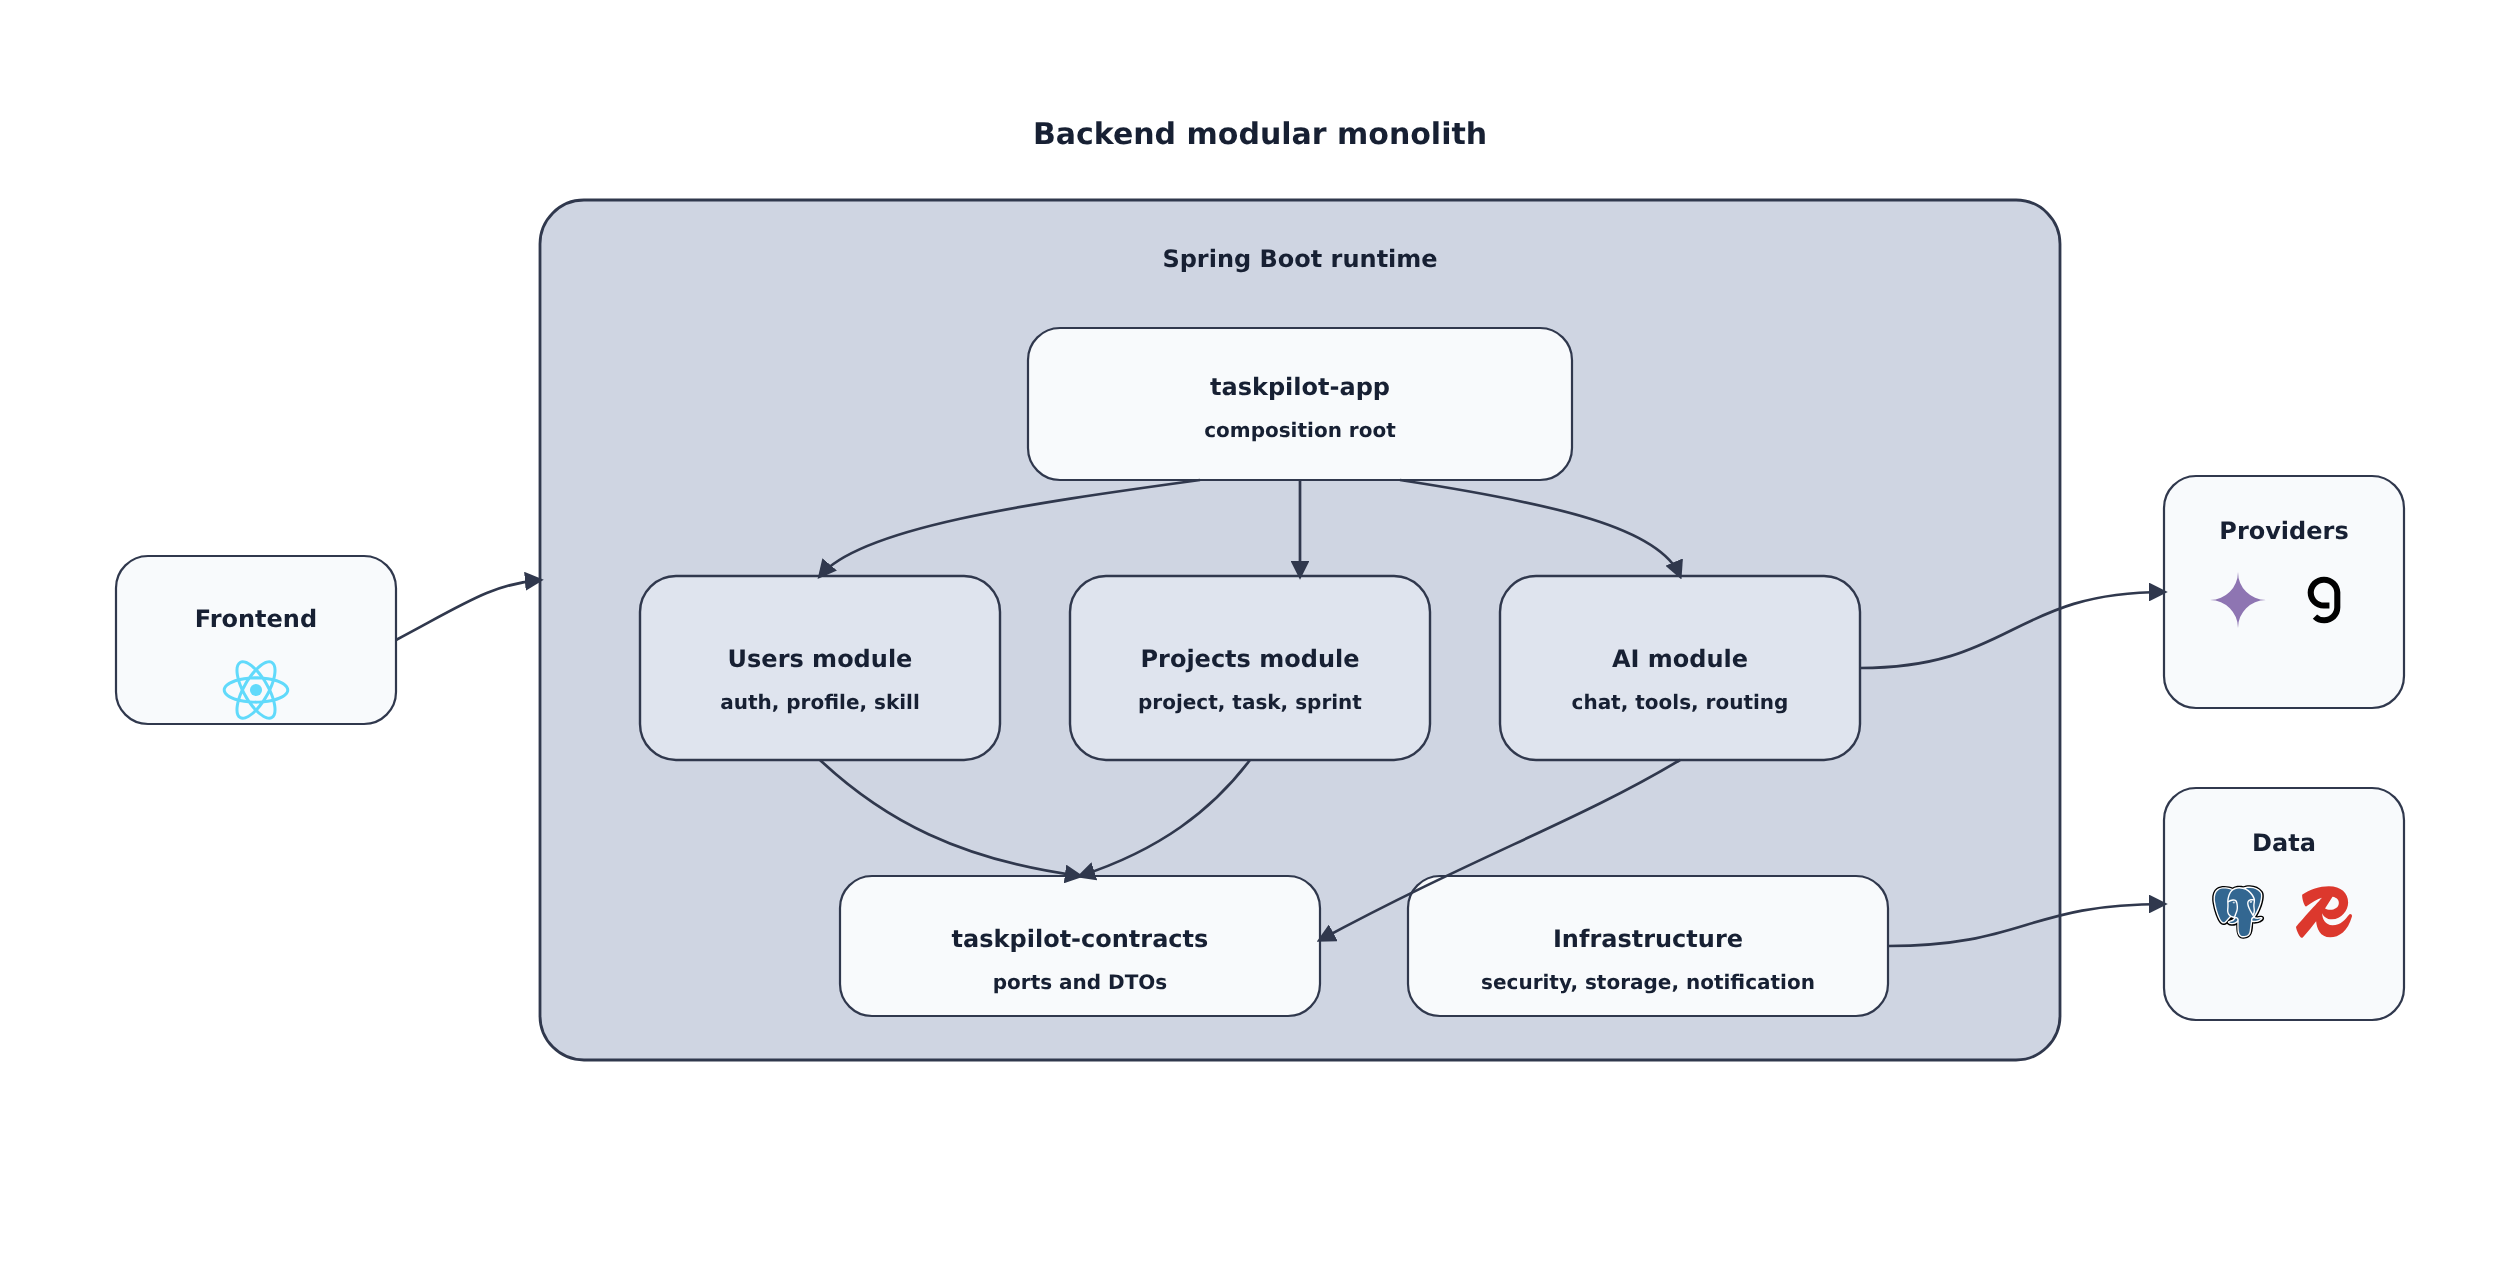
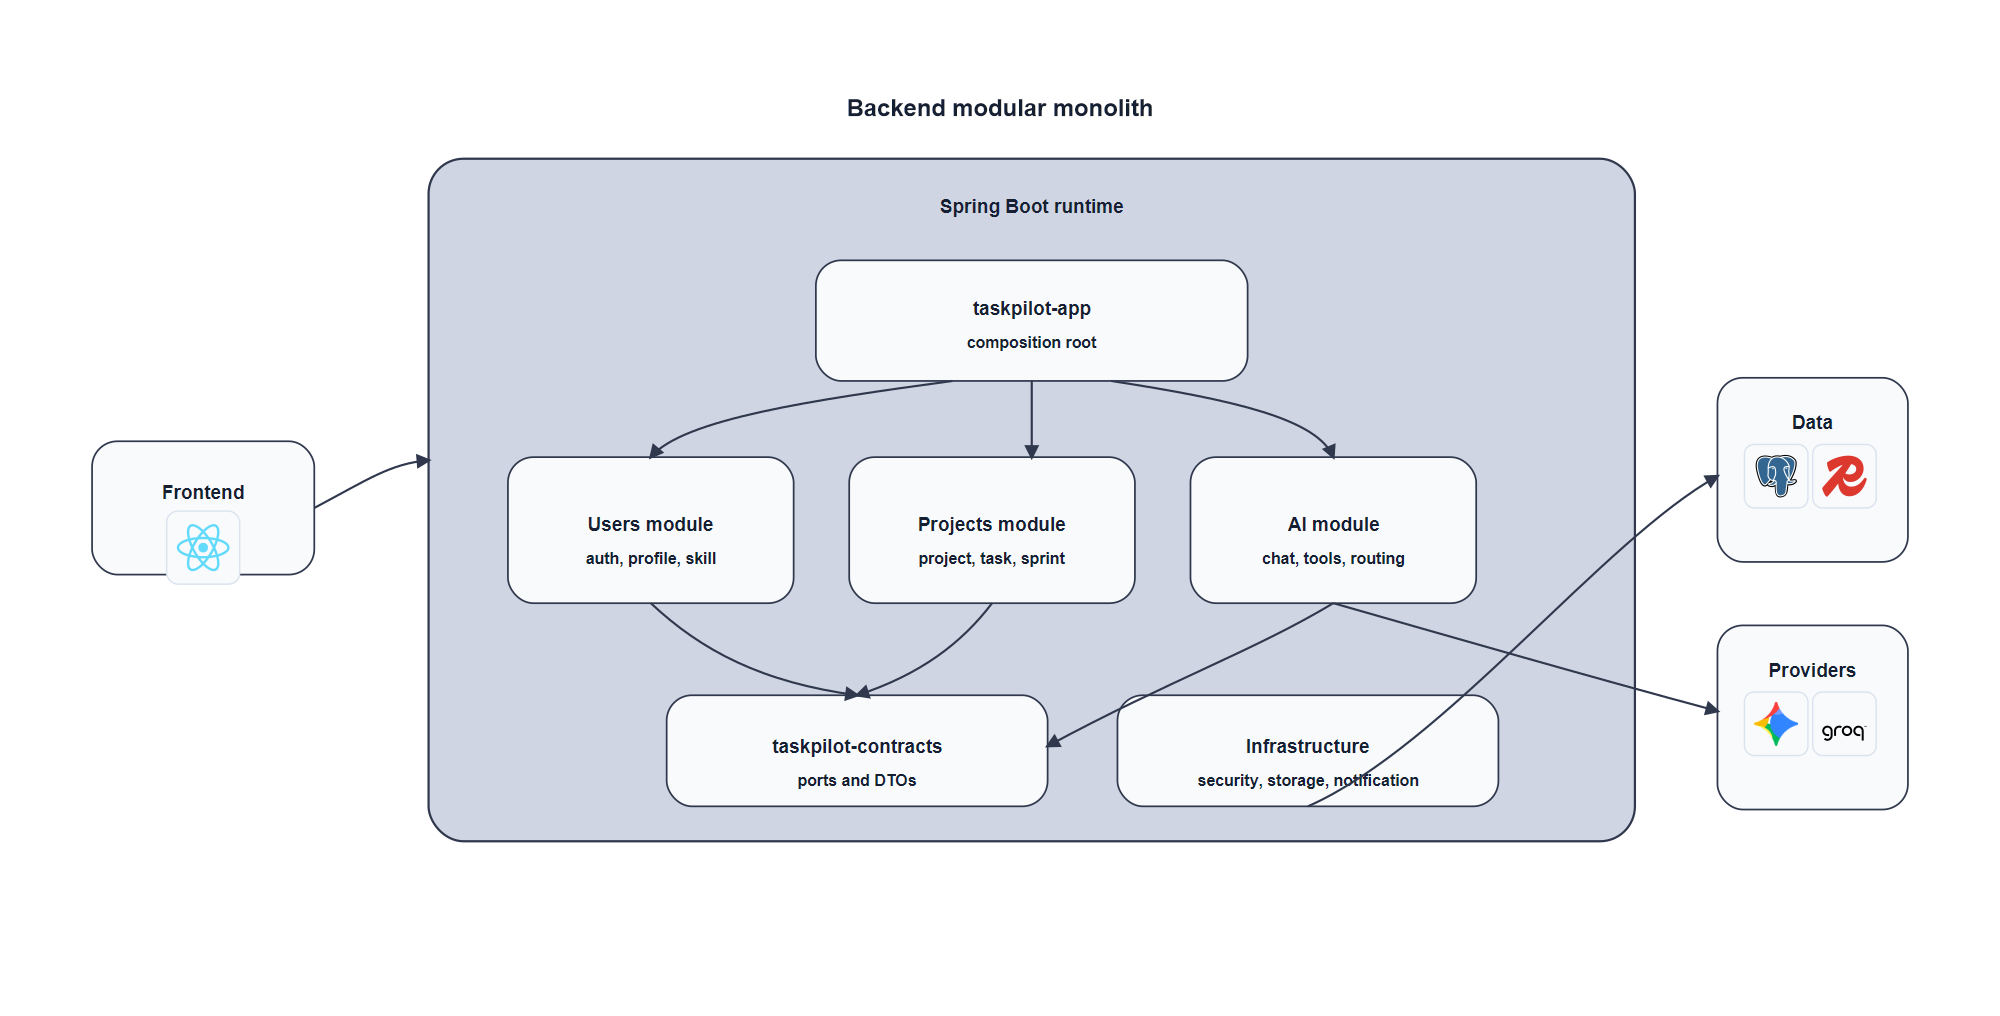
fix: fix image

diff --git a/scripts/render_ahp_weight_charts.py b/scripts/render_ahp_weight_charts.py
@@ -1,0 +1,83 @@
+from pathlib import Path
+
+
+ROOT = Path(__file__).resolve().parents[1]
+OUT = ROOT / "src" / "assets" / "diagrams"
+
+
+MODES = {
+    "balanced": {
+        "title": "AHP weights - BALANCED",
+        "color": "#2563eb",
+        "values": [
+            ("workload cost\nL(u)", 0.648),
+            ("skill fit\nF(u,t)", 0.230),
+            ("performance\nP(u)", 0.122),
+        ],
+    },
+    "urgent": {
+        "title": "AHP weights - URGENT",
+        "color": "#dc2626",
+        "values": [
+            ("workload cost\nL(u)", 0.053),
+            ("skill fit\nF(u,t)", 0.474),
+            ("performance\nP(u)", 0.474),
+        ],
+    },
+    "training": {
+        "title": "AHP weights - TRAINING",
+        "color": "#0f766e",
+        "values": [
+            ("workload cost\nL(u)", 0.731),
+            ("skill fit\nF(u,t)", 0.188),
+            ("performance\nP(u)", 0.081),
+        ],
+    },
+}
+
+
+def multiline_text(x, y, text, size=16, weight=600, fill="#1f2937"):
+    lines = text.split("\n")
+    start = y - (len(lines) - 1) * 10
+    return "\n".join(
+        f"<text x='{x}' y='{start + i * 22}' text-anchor='middle' "
+        f"font-family='Arial, Helvetica, sans-serif' font-size='{size}' "
+        f"font-weight='{weight}' fill='{fill}'>{line}</text>"
+        for i, line in enumerate(lines)
+    )
+
+
+def render(mode, config):
+    chart_top = 112
+    chart_bottom = 350
+    chart_height = chart_bottom - chart_top
+    xs = [305, 505, 705]
+    bar_w = 112
+    parts = [
+        "<svg xmlns='http://www.w3.org/2000/svg' width='1000' height='430' viewBox='0 0 1000 430'>",
+        "<rect width='100%' height='100%' fill='#ffffff'/>",
+        "<rect x='16' y='16' width='968' height='398' rx='10' fill='#f8fafc' stroke='#cbd5e1'/>",
+        multiline_text(500, 56, config["title"], size=24, weight=700),
+        "<line x1='190' y1='110' x2='190' y2='350' stroke='#64748b'/>",
+        "<line x1='190' y1='350' x2='830' y2='350' stroke='#64748b'/>",
+        "<text x='170' y='116' text-anchor='end' font-family='Arial, Helvetica, sans-serif' font-size='12' fill='#475569'>1.0</text>",
+        "<text x='170' y='350' text-anchor='end' font-family='Arial, Helvetica, sans-serif' font-size='12' fill='#475569'>0.0</text>",
+    ]
+    for x, (label, value) in zip(xs, config["values"]):
+        h = round(value * chart_height)
+        y = chart_bottom - h
+        parts.extend(
+            [
+                f"<rect x='{x - bar_w / 2}' y='{y}' width='{bar_w}' height='{h}' rx='7' fill='{config['color']}'/>",
+                multiline_text(x, y - 16, f"{value:.3f}", size=16, weight=700),
+                multiline_text(x, 378, label, size=14, weight=600),
+            ]
+        )
+    parts.append("</svg>")
+    (OUT / f"ch3_12_ahp_weights_{mode}.svg").write_text("\n".join(parts), encoding="utf8")
+
+
+if __name__ == "__main__":
+    OUT.mkdir(parents=True, exist_ok=True)
+    for mode, config in MODES.items():
+        render(mode, config)